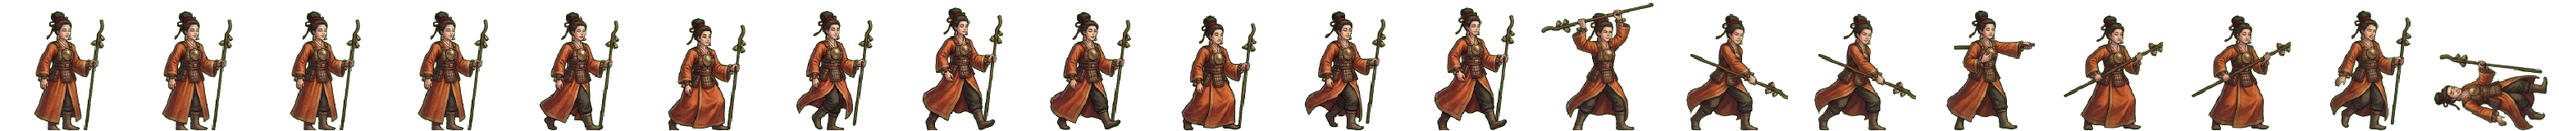
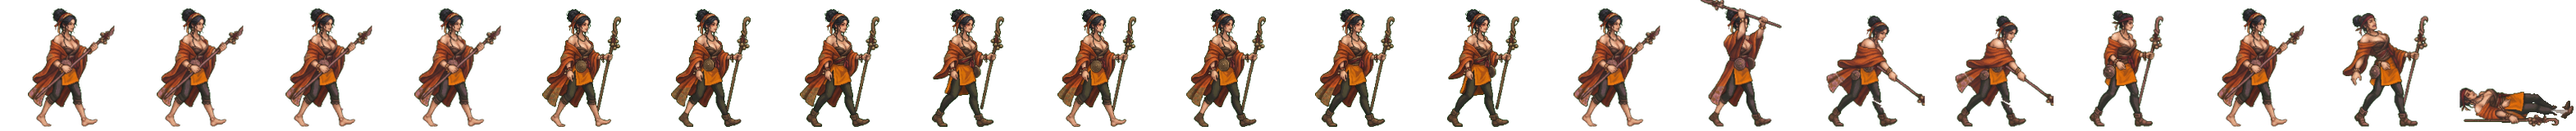
전투 띠 다시: 감실 초상대로 (어깨 내린 주황 겉옷·짧은 치마·청동 거울·방울 지팡이 내려치기) (형 11-08)
Claude-Session: https://claude.ai/code/session_01TRiuNAG8xSjdmjCFpc8Rd5

diff --git a/src/realm/data/art.ts b/src/realm/data/art.ts
@@ -493,7 +493,7 @@ export const GEN_ANIM: Readonly<Partial<Record<string, { ar: number; body: numbe
   soebi: { ar: 156 / 160, body: 0.906 }, // 11-08 초상대로 다시 (형: 「투구 쓰고 원본과 다르다」 · 제미나이 걷기 4×2 + 동작 4×2 → 20컷 · assets_src/realm/gemini/generals2) · 쇠 덩이 묶음 대신 큰 쇠망치
   ara: { ar: 157 / 160, body: 0.906 }, // 11-08 초상대로 다시 (형: 「투구 쓰고 원본과 다르다」 · 제미나이 걷기 4×2 + 동작 4×2 → 20컷 · assets_src/realm/gemini/generals2)
   heo: { ar: 145 / 160, body: 0.900 }, // 11-08 초상대로 다시 (형: 「투구 쓰고 원본과 다르다」 · 제미나이 걷기 4×2 + 동작 4×2 → 20컷 · assets_src/realm/gemini/generals2) · 갑옷 대신 보석 윗옷·트임 치마 (형: 전투 옷은 더 드러나게)
-  gamsil: { ar: 156 / 160, body: 0.901 }, // 11-05 밤 제 띠 (제미나이 edu Flash · 주홍 무늬 겉옷·청동 거울·방울 지팡이 · 쓰러짐 장은 옷이 딴사람으로 나와 버리고 맞음 컷을 눕혀 씀(tools/laydown.ps1))
+  gamsil: { ar: 157 / 160, body: 0.906 }, // 11-08 초상대로 다시 (형: 「투구 쓰고 원본과 다르다」 · 제미나이 걷기 4×2 + 동작 4×2 → 20컷 · assets_src/realm/gemini/generals2) · 어깨 내린 주황 겉옷·짧은 치마 (형: 전투 옷은 더 드러나게)
   sori: { ar: 280 / 160, body: 0.9375 }, // normal portrait, right-hand dagger, shared four-pose walk
   sogeumbi: { ar: 280 / 160, body: 0.9375 }, // same-hand short downcut, shared four-pose walk
   budeul: { ar: 280 / 160, body: 0.9375 }, // 11-07 original Budeul upper body/knife + shared 4-pose trousers

diff --git a/src/ui/realm/battle-strikes.ts b/src/ui/realm/battle-strikes.ts
@@ -139,7 +139,7 @@ const CONTACT: Readonly<Record<string, [number, number, number]>> = {
   marine: [15, .99, .40], militia: [14, .98, .33],
   'gen-g-spear': [15, .99, .32], 'gen-g-sword': [16, .99, .33], 'gen-w-spear': [14, .98, .56],
   'gen-mount': [15, .98, .22], 'gen-ara': [14, 0.76, 0.94], 'gen-aryeong': [14, 0.94, 0.26],
-  'gen-daeso': [14, 0.95, 0.34], 'gen-eureum': [14, .95, .13], 'gen-gamsil': [14, .92, .69],
+  'gen-daeso': [14, 0.95, 0.34], 'gen-eureum': [14, .95, .13], 'gen-gamsil': [14, 0.94, 0.76],
   'gen-haebi': [14, 0.87, 0.53], 'gen-heo': [14, 0.94, 0.46], 'gen-hyeokgeose': [14, 0.83, 0.94],
   'gen-hyeopbo': [14, .93, .21], 'gen-malgalgi': [14, 0.88, 0.28], 'gen-mari': [14, .98, .47],
   'gen-oi': [14, .98, .48], 'gen-onjo': [14, 0.83, 0.93], 'gen-soebi': [14, 0.80, 0.95],
